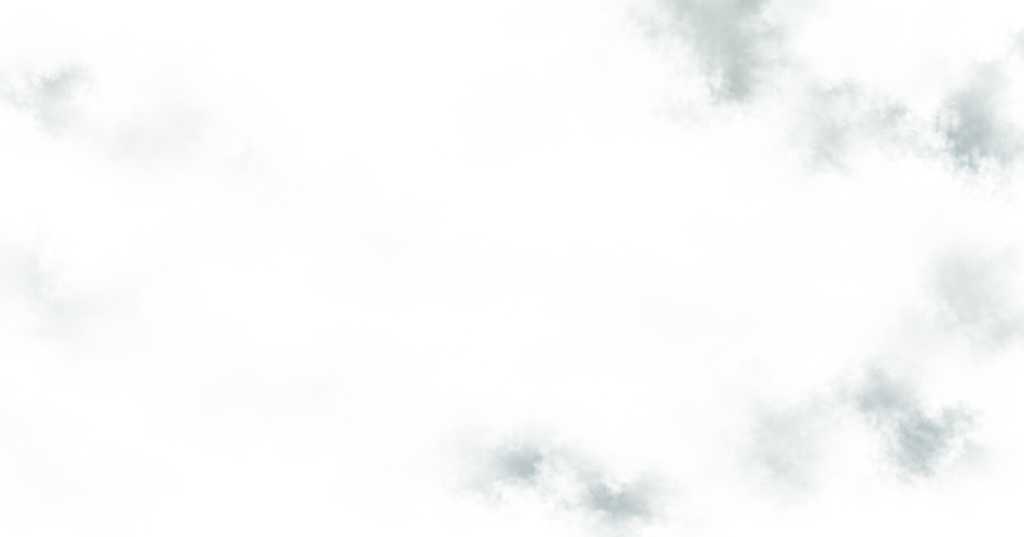
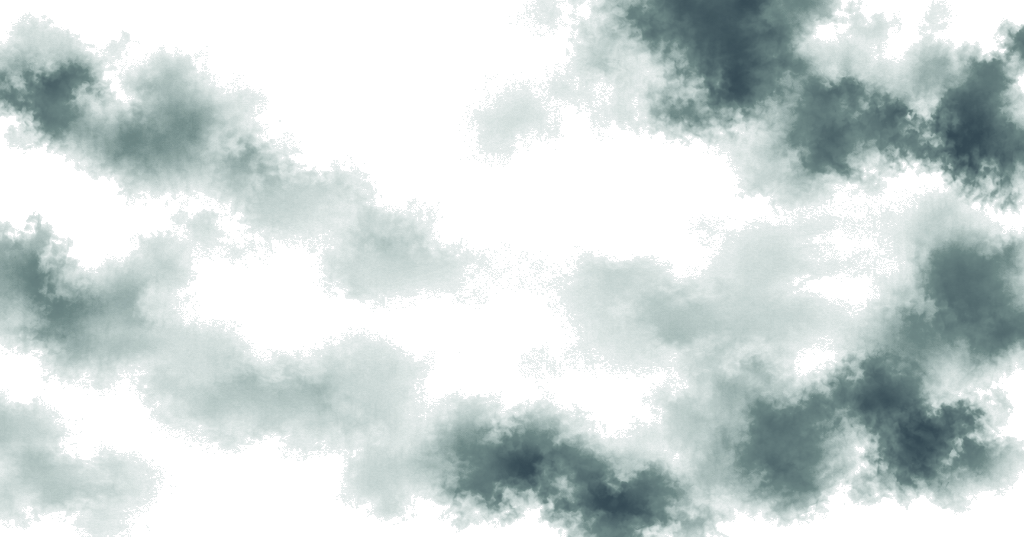
added mist final

diff --git a/web/components/features/mist/AtmosphericMist.tsx b/web/components/features/mist/AtmosphericMist.tsx
@@ -11,21 +11,23 @@ import { AtmosphericMistProps } from './types';
 /**
  * AtmosphericMist
  *
- * Lightly applies the atmospheric mist artifact surrounding the website perimeter
+ * Richly applies the atmospheric mist artifact surrounding the website perimeter
  * in Light Mode (Daylight Sage theme), framing the hero typography and 3D globe.
  *
- * As the user scrolls down, GSAP smoothly disperses the mist outward (scaling up,
- * drifting, and fading to zero opacity) into the triage data view.
+ * Utilizes dual-depth atmospheric layering (Perimeter Horizon + Planetary Accent)
+ * so clouds are distinctly visible against white backgrounds, matching reference aesthetics.
+ *
+ * As the user scrolls down, GSAP smoothly disperses the mist outward into clear space.
  * Strictly inactive / hidden in Dark Mode (Night Forest theme).
  */
 export const AtmosphericMist: React.FC<AtmosphericMistProps> = ({
   scrollProgress = 0,
   imageUrl = '/atmospheric-mist-transparent.png',
-  baseOpacity = 0.55,
+  baseOpacity = 0.95,
   intensity,
   dispersionThreshold = 0.22,
-  dispersionScale = 1.15,
-  dispersionY = -30,
+  dispersionScale = 1.18,
+  dispersionY = -35,
   blendMode = 'normal',
   className = '',
   classNames,
@@ -64,13 +66,25 @@ export const AtmosphericMist: React.FC<AtmosphericMistProps> = ({
       const dispersion = raw * raw * (3 - 2 * raw); // Smooth easeInOut curve
 
       const targetOpacity = Math.max(0, (1.0 - dispersion) * effectiveOpacity);
-      const targetScale = prefersReducedMotion ? 1.0 : 1.0 + dispersion * (dispersionScale - 1.0);
+      const targetScaleOuter = prefersReducedMotion ? 1.0 : 1.0 + dispersion * (dispersionScale - 1.0);
+      const targetScaleAccent = prefersReducedMotion ? 1.25 : 1.25 + dispersion * 0.25;
       const targetY = prefersReducedMotion ? 0 : dispersion * dispersionY;
 
-      gsap.to('.mist-wrapper', {
+      // Base framing layer dispersion
+      gsap.to('.mist-wrapper-outer', {
         opacity: targetOpacity,
-        scale: targetScale,
+        scale: targetScaleOuter,
         y: targetY,
+        duration: 0.4,
+        ease: 'power2.out',
+        overwrite: 'auto',
+      });
+
+      // Planetary accent layer dispersion
+      gsap.to('.mist-wrapper-accent', {
+        opacity: targetOpacity * 0.85,
+        scale: targetScaleAccent,
+        y: targetY * 1.3,
         duration: 0.4,
         ease: 'power2.out',
         overwrite: 'auto',
@@ -78,10 +92,20 @@ export const AtmosphericMist: React.FC<AtmosphericMistProps> = ({
 
       // Subtle ambient floating / breathing microinteraction when near hero
       if (enableFloatingDrift && !prefersReducedMotion && dispersion < 0.5) {
-        gsap.to('.mist-image', {
+        gsap.to('.mist-image-outer', {
           y: driftOffset,
           x: -driftOffset * 0.6,
           duration: driftDuration,
+          repeat: -1,
+          yoyo: true,
+          ease: 'sine.inOut',
+          overwrite: false,
+        });
+
+        gsap.to('.mist-image-accent', {
+          y: -driftOffset * 0.8,
+          x: driftOffset * 0.5,
+          duration: driftDuration * 1.2,
           repeat: -1,
           yoyo: true,
           ease: 'sine.inOut',
@@ -117,8 +141,9 @@ export const AtmosphericMist: React.FC<AtmosphericMistProps> = ({
       aria-hidden="true"
       className={`fixed inset-0 pointer-events-none z-[1] overflow-hidden select-none transition-opacity duration-300 ${className} ${classNames?.root ?? ''}`}
     >
+      {/* Primary Horizon Framing Mist Layer */}
       <div
-        className={`mist-wrapper relative w-full h-full will-change-transform will-change-opacity ${classNames?.wrapper ?? ''}`}
+        className={`mist-wrapper mist-wrapper-outer absolute inset-0 w-full h-full will-change-transform will-change-opacity ${classNames?.wrapper ?? ''}`}
         style={{
           opacity: effectiveOpacity,
           transformOrigin: 'center 40%',
@@ -130,14 +155,37 @@ export const AtmosphericMist: React.FC<AtmosphericMistProps> = ({
           fill
           priority
           sizes="100vw"
-          className={`mist-image object-cover object-center scale-105 pointer-events-none select-none ${classNames?.image ?? ''}`}
+          className={`mist-image mist-image-outer object-cover object-center scale-105 pointer-events-none select-none ${classNames?.image ?? ''}`}
           style={{
             mixBlendMode: blendMode,
-            filter: 'contrast(1.02) brightness(1.01)',
+            filter: 'contrast(1.08) brightness(0.98)',
           }}
         />
-        {children}
       </div>
+
+      {/* Volumetric Globe & Typography Mist Accent (Brings clouds closer around globe & hero text) */}
+      <div
+        className="mist-wrapper mist-wrapper-accent absolute inset-0 w-full h-full will-change-transform will-change-opacity pointer-events-none"
+        style={{
+          opacity: effectiveOpacity * 0.85,
+          transformOrigin: '68% 45%',
+          transform: 'scale(1.25)',
+        }}
+      >
+        <Image
+          src={imageUrl}
+          alt=""
+          fill
+          sizes="100vw"
+          className="mist-image mist-image-accent object-cover object-center pointer-events-none select-none"
+          style={{
+            mixBlendMode: blendMode,
+            filter: 'contrast(1.10) brightness(0.96)',
+          }}
+        />
+      </div>
+
+      {children}
     </div>
   );
 };

diff --git a/web/app/page.tsx b/web/app/page.tsx
@@ -143,7 +143,7 @@ export default function HomePage() {
       />
 
       {/* Atmospheric Mist Background Artifact (Light Mode Only, Disperses on Scroll) */}
-      <AtmosphericMist scrollProgress={scrollProgress} intensity={0.7} />
+      <AtmosphericMist scrollProgress={scrollProgress} intensity={1.0} />
 
       {/* Top Floating Dark Dock Navigation */}
       <Header
